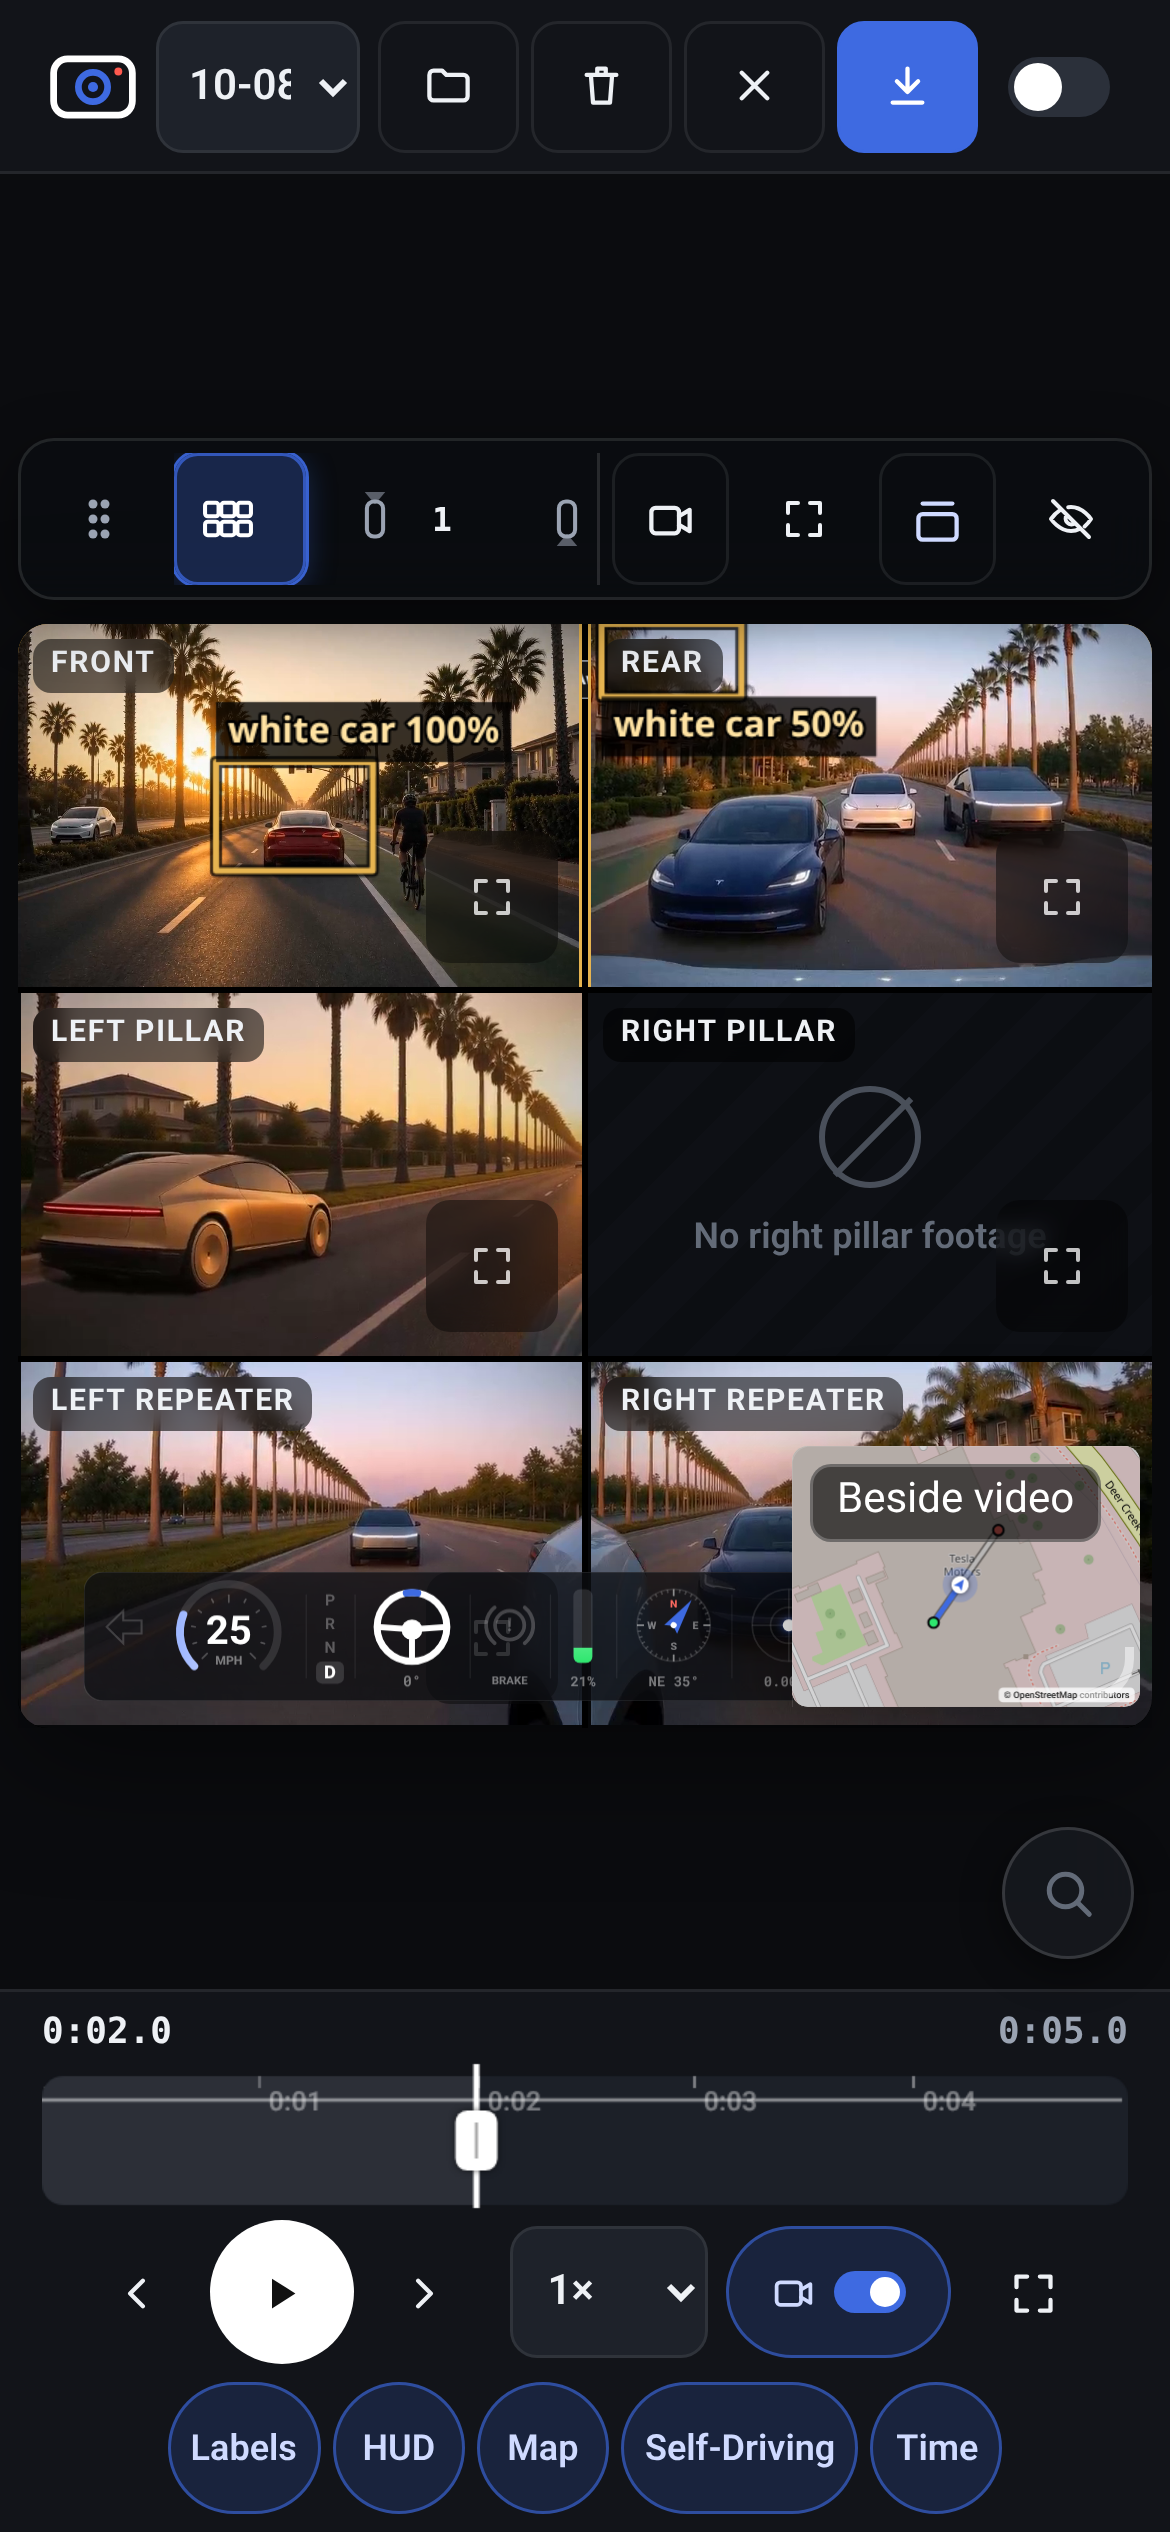
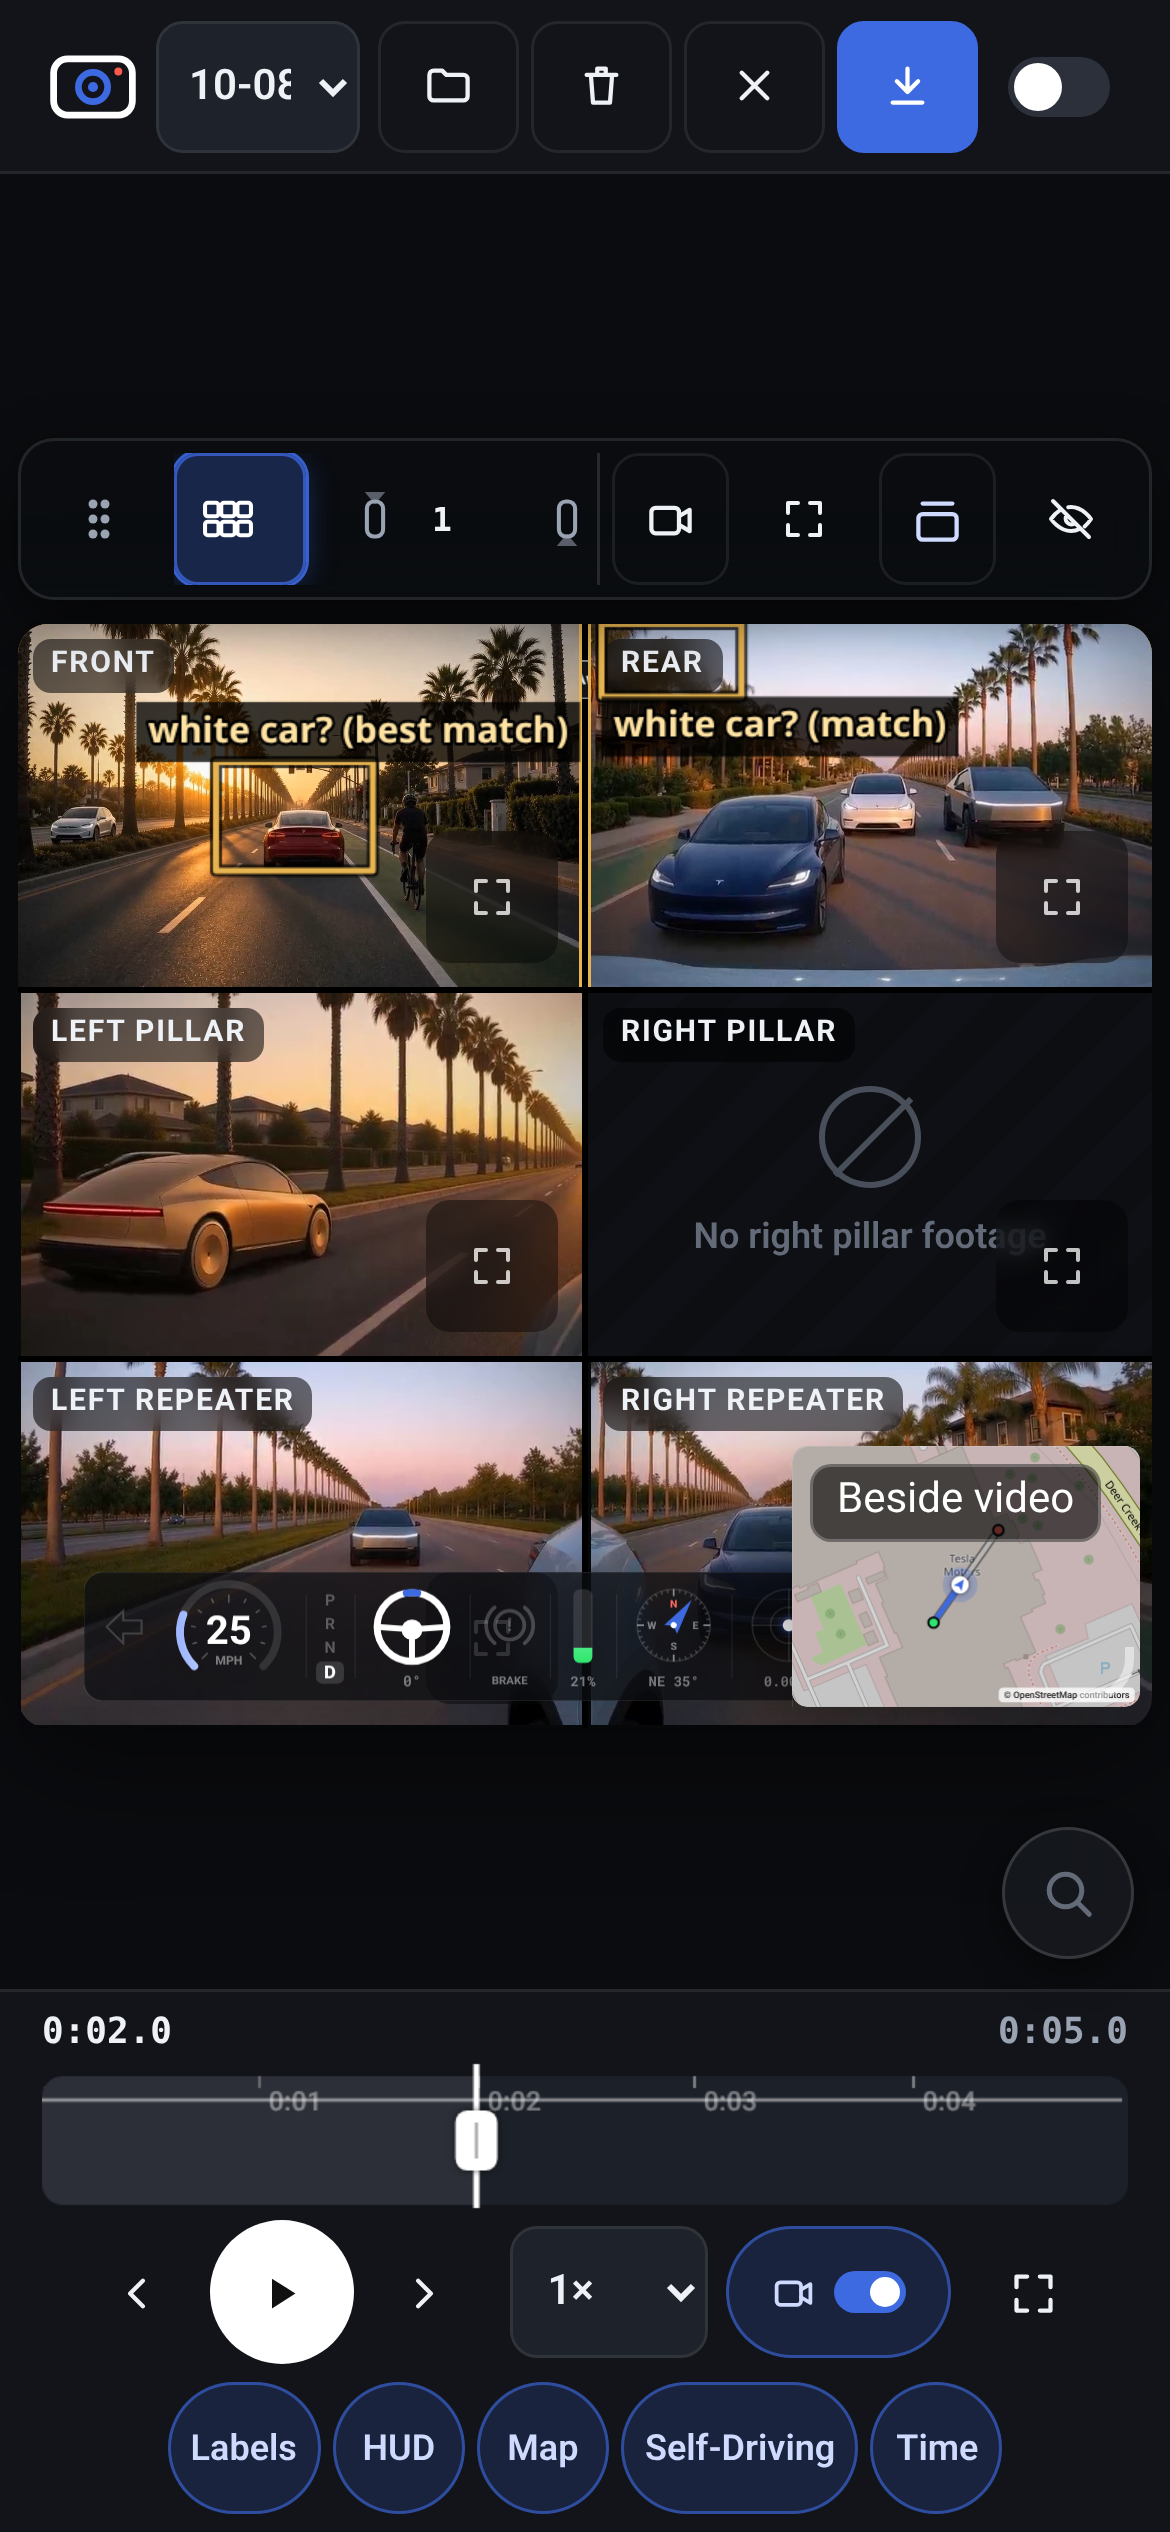
labels: picture-search hits say '? (match)' instead of a fake %

Changed region(s): [[0.0923, 0.2496, 0.4923, 0.312], [0.6769, 0.2496, 0.8308, 0.312]]

diff --git a/js/burn-boxes.js b/js/burn-boxes.js
@@ -13,11 +13,12 @@
   const validBox = (b) => b && num(b.x) && num(b.y) && num(b.w) && num(b.h) && b.w > 0 && b.h > 0;
 
   /** Label text: class name + confidence. Future detector hits carry {label|cls, conf}; Phase 4 text-search hits use the phrase + match score. */
-  // (CLIP scores are not probabilities, so text-search hits show a relative match: score ÷ best score in the results.)
+  // (CLIP scores are not probabilities, so picture-search hits are labelled "phrase? (best match)" / "phrase? (match)" without a %.)
   B.labelFor = (hit, phrase, best) => {
     const name = String(hit.label || hit.cls || hit.box.label || phrase || "match").slice(0, 40);
-    let c = num(hit.conf) ? hit.conf : num(hit.box.conf) ? hit.box.conf : num(hit.score) && num(best) && best > 0 ? hit.score / best : null;
-    if (c == null) return name;
+    let c = num(hit.conf) ? hit.conf : num(hit.box.conf) ? hit.box.conf : null;
+    // Picture-search (CLIP) hits have no real confidence: say it's a match, not a percentage.
+    if (c == null) return !hit.det && (num(hit.score) || phrase) ? name + "? (" + (num(hit.score) && num(best) && hit.score >= best ? "best match" : "match") + ")" : name;
     if (c > 1) c = c / 100;
     return name + " " + Math.round(Math.max(0, Math.min(1, c)) * 100) + "%";
   };

diff --git a/test/burn-boxes.js b/test/burn-boxes.js
@@ -32,10 +32,10 @@ let fails = 0; const ok = (n, c, x) => { console.log((c ? "PASS " : "FAIL ") + n
     };
   });
   ok("label: class + confidence", u.det === "car 92%", u.det);
-  ok("label: phrase + relative match", u.rel === "red car 50%", u.rel);
+  ok("label: picture-search hit says match, no fake %", u.rel === "red car? (match)", u.rel);
   ok("no detection near t → nothing", u.none === 0 && u.cam === 0);
   ok("bad / absent data → nothing, no throw", u.bad === 0 && u.junk === 0);
-  ok("hit within window", u.hit.length === 1 && u.hit[0].text === "dog 100%");
+  ok("hit within window", u.hit.length === 1 && u.hit[0].text === "dog? (best match)");
   // render with real frames through the export compositor
   const r = await p.evaluate(async (wantShot) => {
     const P = TDC.player, ev = P.ev; P.pause(); const t = Math.min(2, ev.duration / 2); await P.seek(t); await new Promise((r) => setTimeout(r, 800));

diff --git a/test/live-labels.js b/test/live-labels.js
@@ -37,7 +37,7 @@ function check(tag, r) {
   ok(tag + ": label at top edge stays in tile", r.back && r.back.label > 5 && r.back.minY >= 0 && r.back.maxX < r.back.w, r.back);
   ok(tag + ": camera without a hit is empty", r.left_repeater && r.left_repeater.gold === 0);
   ok(tag + ": overlay doesn't take clicks", r.front.pe === "none");
-  ok(tag + ": text matches export burn-in", r.text[0] === "white car 100%" && r.text[1] === "white car 50%" && r.exportText[0] === r.text[0], r.text);
+  ok(tag + ": text matches export burn-in", r.text[0] === "white car? (best match)" && r.text[1] === "white car? (match)" && r.exportText[0] === r.text[0], r.text);
 }
 (async () => {
   const b = await puppeteer.launch({ executablePath: "/usr/bin/google-chrome", headless: true, args: ["--no-sandbox", "--autoplay-policy=no-user-gesture-required", "--hide-scrollbars"], userDataDir: "/tmp/tdc-live-" + Date.now() });
